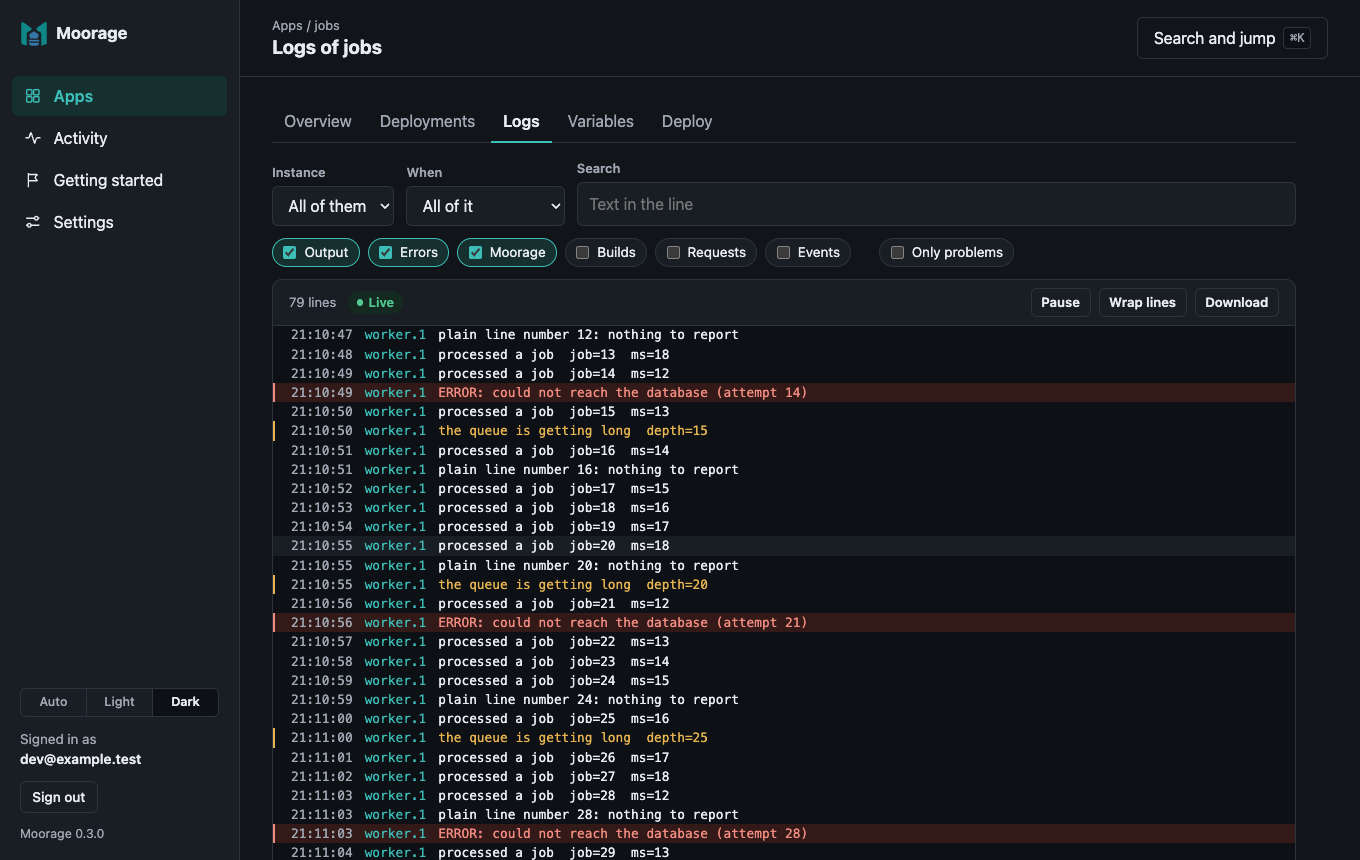
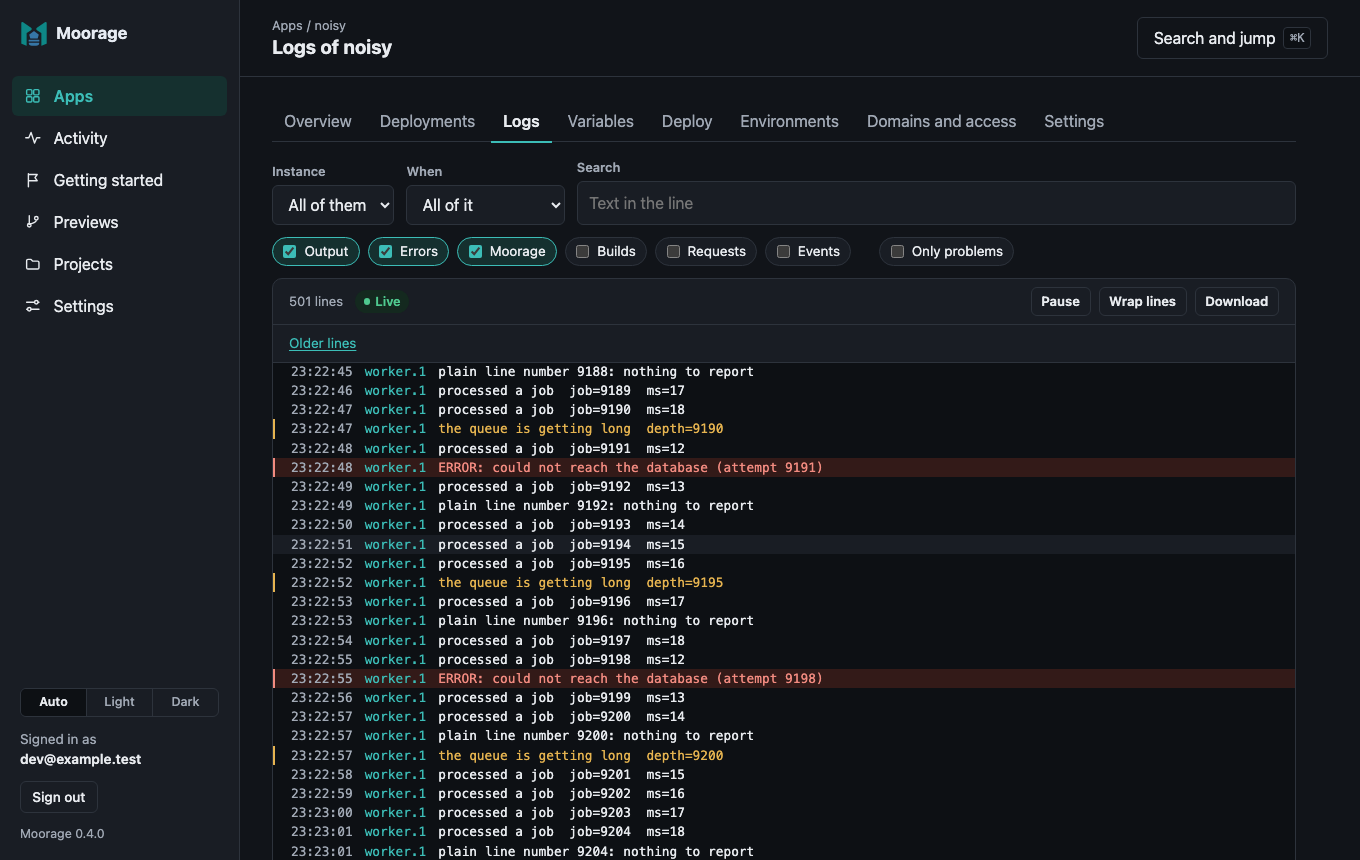
Moorage 0.4.0

diff --git a/internal/console/templates/apps.html b/internal/console/templates/apps.html
@@ -652,8 +652,8 @@
   </form>
   {{end}}
 </section>
-<section class="panel panel-pad block">
-  <h2>Who can reach it</h2>
+<div class="section-heading"><h2>Who can reach it</h2></div>
+<section class="panel panel-pad block gate-panel">
   {{if .AskedInVain}}<p class="notice warn" role="status">Its <code>moorage.toml</code> asks for no gate, which only a maintainer can allow: choose Anyone below to allow it.</p>{{end}}
   <p><span class="badge{{if eq .Mode "public"}} ok{{else}} info{{end}}">{{.Label}}</span> <span class="muted small">{{.Source}}</span></p>
   {{if $.Access.Manage}}

diff --git a/internal/buildinfo/buildinfo.go b/internal/buildinfo/buildinfo.go
@@ -9,7 +9,7 @@ import (
 // Version is the version being developed or released. The release workflow
 // refuses a tag vX.Y.Z that does not match it, so it is set to the release
 // number by the last slice of each wave.
-var Version = "0.3.0"
+var Version = "0.4.0"
 
 // Info describes the running binary.
 type Info struct {

diff --git a/docs/install.md b/docs/install.md
@@ -1,7 +1,7 @@
 # Installing Moorage
 
 Moorage is one program, `moor`: the server and the command line that talks
-to it. Version 0.3.0 runs on Linux and macOS (amd64 and arm64); on Windows,
+to it. Version 0.4.0 runs on Linux and macOS (amd64 and arm64); on Windows,
 `moor` runs as a command line and `moor server run` works, but installing the
 server as a service arrives in a later release.
 
@@ -52,18 +52,18 @@ sudo sh install-moor.sh
 
 | Variable | `install.sh` | `install.ps1` | |
 |---|---|---|---|
-| `MOOR_VERSION` | `--version` | `-Version` | A release, such as `v0.3.0`. By default, the latest |
+| `MOOR_VERSION` | `--version` | `-Version` | A release, such as `v0.4.0`. By default, the latest |
 | `MOOR_INSTALL_DIR` | `--install-dir` | `-InstallDir` | An absolute directory |
 | `MOOR_REPOSITORY` | | `-Repository` | `owner/repository`, for a fork |
 | `MOOR_ARCH` | | `-Architecture` | `amd64` or `arm64`, if detecting it fails |
 | `MOOR_NO_PATH_UPDATE` | | `-NoPathUpdate` | Leave the user `PATH` alone |
 
 ```bash
-curl --proto '=https' --tlsv1.2 -fsSL https://raw.githubusercontent.com/robert-mcdermott/moorage/main/install.sh | MOOR_VERSION=v0.3.0 sh
+curl --proto '=https' --tlsv1.2 -fsSL https://raw.githubusercontent.com/robert-mcdermott/moorage/main/install.sh | MOOR_VERSION=v0.4.0 sh
 ```
 
 ```powershell
-$env:MOOR_VERSION = 'v0.3.0'; irm https://raw.githubusercontent.com/robert-mcdermott/moorage/main/install.ps1 | iex
+$env:MOOR_VERSION = 'v0.4.0'; irm https://raw.githubusercontent.com/robert-mcdermott/moorage/main/install.ps1 | iex
 ```
 
 **On Windows,** `irm … | iex` reads the script into memory and runs it, so the

diff --git a/README.md b/README.md
@@ -202,16 +202,17 @@ server](docs/tls.md) certificates, [Behind a TLS proxy](docs/proxy.md) nginx, an
 
 ## Status
 
-Moorage 0.3.0 is a server on Linux or macOS for a team: it builds and deploys
-apps from their source or a `git push`, in containers or not, with accounts, API
-tokens and a [web console](docs/console.md). On Windows, `moor` works as a command
-line and `moor server run` works; the Windows service comes later.
+Moorage 0.4.0 is a server on Linux or macOS for a team: it builds and deploys
+apps from their source or a `git push`, in containers or not, with accounts, projects
+and roles, an audit log and a [web console](docs/console.md). Every branch can have
+[its own preview and address](docs/previews.md), which sleeps when idle, and [who can
+reach it](docs/access.md) is up to you: a password, a sign-in, a share link. Apps can have
+[domains of their own](docs/domains.md). On Windows, `moor` works as a command line and
+`moor server run` works; the Windows service comes later.
 
 Next, in the [roadmap](spec/11-roadmap.md):
 
-- **0.4.0, previews and sharing:** an environment and a URL for every pushed
-  branch, sleeping when idle, shared behind a password, a sign-in or an
-  expiring link.
+- **0.5.0, real apps, observed:** cron jobs and one-off runs, metrics, and notifications.
 
 ## Building Moorage
 

diff --git a/CHANGELOG.md b/CHANGELOG.md
@@ -1,6 +1,14 @@
 # Changelog
 
-## Unreleased
+## 0.4.0 (2026-11-03)
+
+Moorage 0.4.0 gives every branch a place of its own, and says who can reach it. Push a branch and it gets its own build, address and data, which sleeps when nobody is using it and goes when its branch does. Staging, promoting what it runs to production, and locks come with it. Each environment can be open, behind a password, for those signed in, or only for people with a share link. Apps can have domains of their own, and belong to projects, in which people have roles, with an audit log of who did what.
+
+Upgrading from 0.3.0 needs no steps of its own: replace `moor` and restart the server, and running apps are taken over without a restart. Three things behave differently:
+
+- **Pushing a branch other than the default now deploys it,** as a preview. `enabled = false` in `[previews]` keeps branches as they were.
+- **Previews are for those signed in with a role in the app's project.** To share them with people who have no account, make a [share link](docs/access.md#share-links), or set `preview = "public"` under `[access]` in `server.toml`.
+- **New servers set up as you keep everything in `~/.moorage`** on macOS and Linux. A server that already exists is found where it is.
 
 ### Added
 

diff --git a/docs/access.md b/docs/access.md
@@ -119,8 +119,9 @@ is the same as `$MOORAGE_PROXY_TOKEN`, which differs by environment.
 hmac.compare_digest(request.headers["X-Moorage-Proxy-Token"], os.environ["MOORAGE_PROXY_TOKEN"])
 ```
 
-Apps running as one user can read each other's environment, so that this needs [containers](containers.md), or
-an isolation level that gives each app a user of its own.
+Apps that are not in [containers](containers.md) all run as one user today, and can read each other's
+environment, so that the token only keeps out what runs apart from them. Giving each app a user of its own comes in a
+later release.
 
 ## Share links
 

diff --git a/docs/manifest.md b/docs/manifest.md
@@ -3,7 +3,7 @@
 `moorage.toml`, at the top of an app's directory, says how Moorage builds
 and runs the app. It is optional: without it, Moorage detects the kind of
 app (see [Detection](#detection)), and `moor manifest explain` shows what it
-detected. This page describes the manifest as Moorage 0.3.0 implements it;
+detected. This page describes the manifest as Moorage 0.4.0 implements it;
 the [design](../spec/03-manifest.md) describes what later releases add.
 
 ```bash

diff --git a/spec/11-roadmap.md b/spec/11-roadmap.md
@@ -827,7 +827,7 @@ directory, supervises it, and serves it on its own hostname.
      - From here, a release goes through without stopping to ask: pull request, merge once
        CI is green, tag, and publish the draft once its binaries are there.
 
-## 0.4.0: previews and sharing (planned)
+## 0.4.0: previews and sharing (released 2026-11-03)
 
 ### Wave 4
 

diff --git a/docs/README.md b/docs/README.md
@@ -1,7 +1,7 @@
 # Moorage documentation
 
 How to install Moorage, run it, and deploy apps to it. This documentation
-describes Moorage 0.3.0; the [design documents](../spec/README.md) describe
+describes Moorage 0.4.0; the [design documents](../spec/README.md) describe
 how it works inside and where it is going.
 
 ## Start here

diff --git a/docs/troubleshooting.md b/docs/troubleshooting.md
@@ -12,7 +12,7 @@ server's files.
 
 ```text
 ✔ config         /etc/moorage/server.toml
-✔ server         running 0.3.0 on :80
+✔ server         running 0.4.0 on :80
 ✔ listen.http    answering on :80
 ✔ listen.https   answering on :443
 ✔ listen.ssh     answering on :2222
